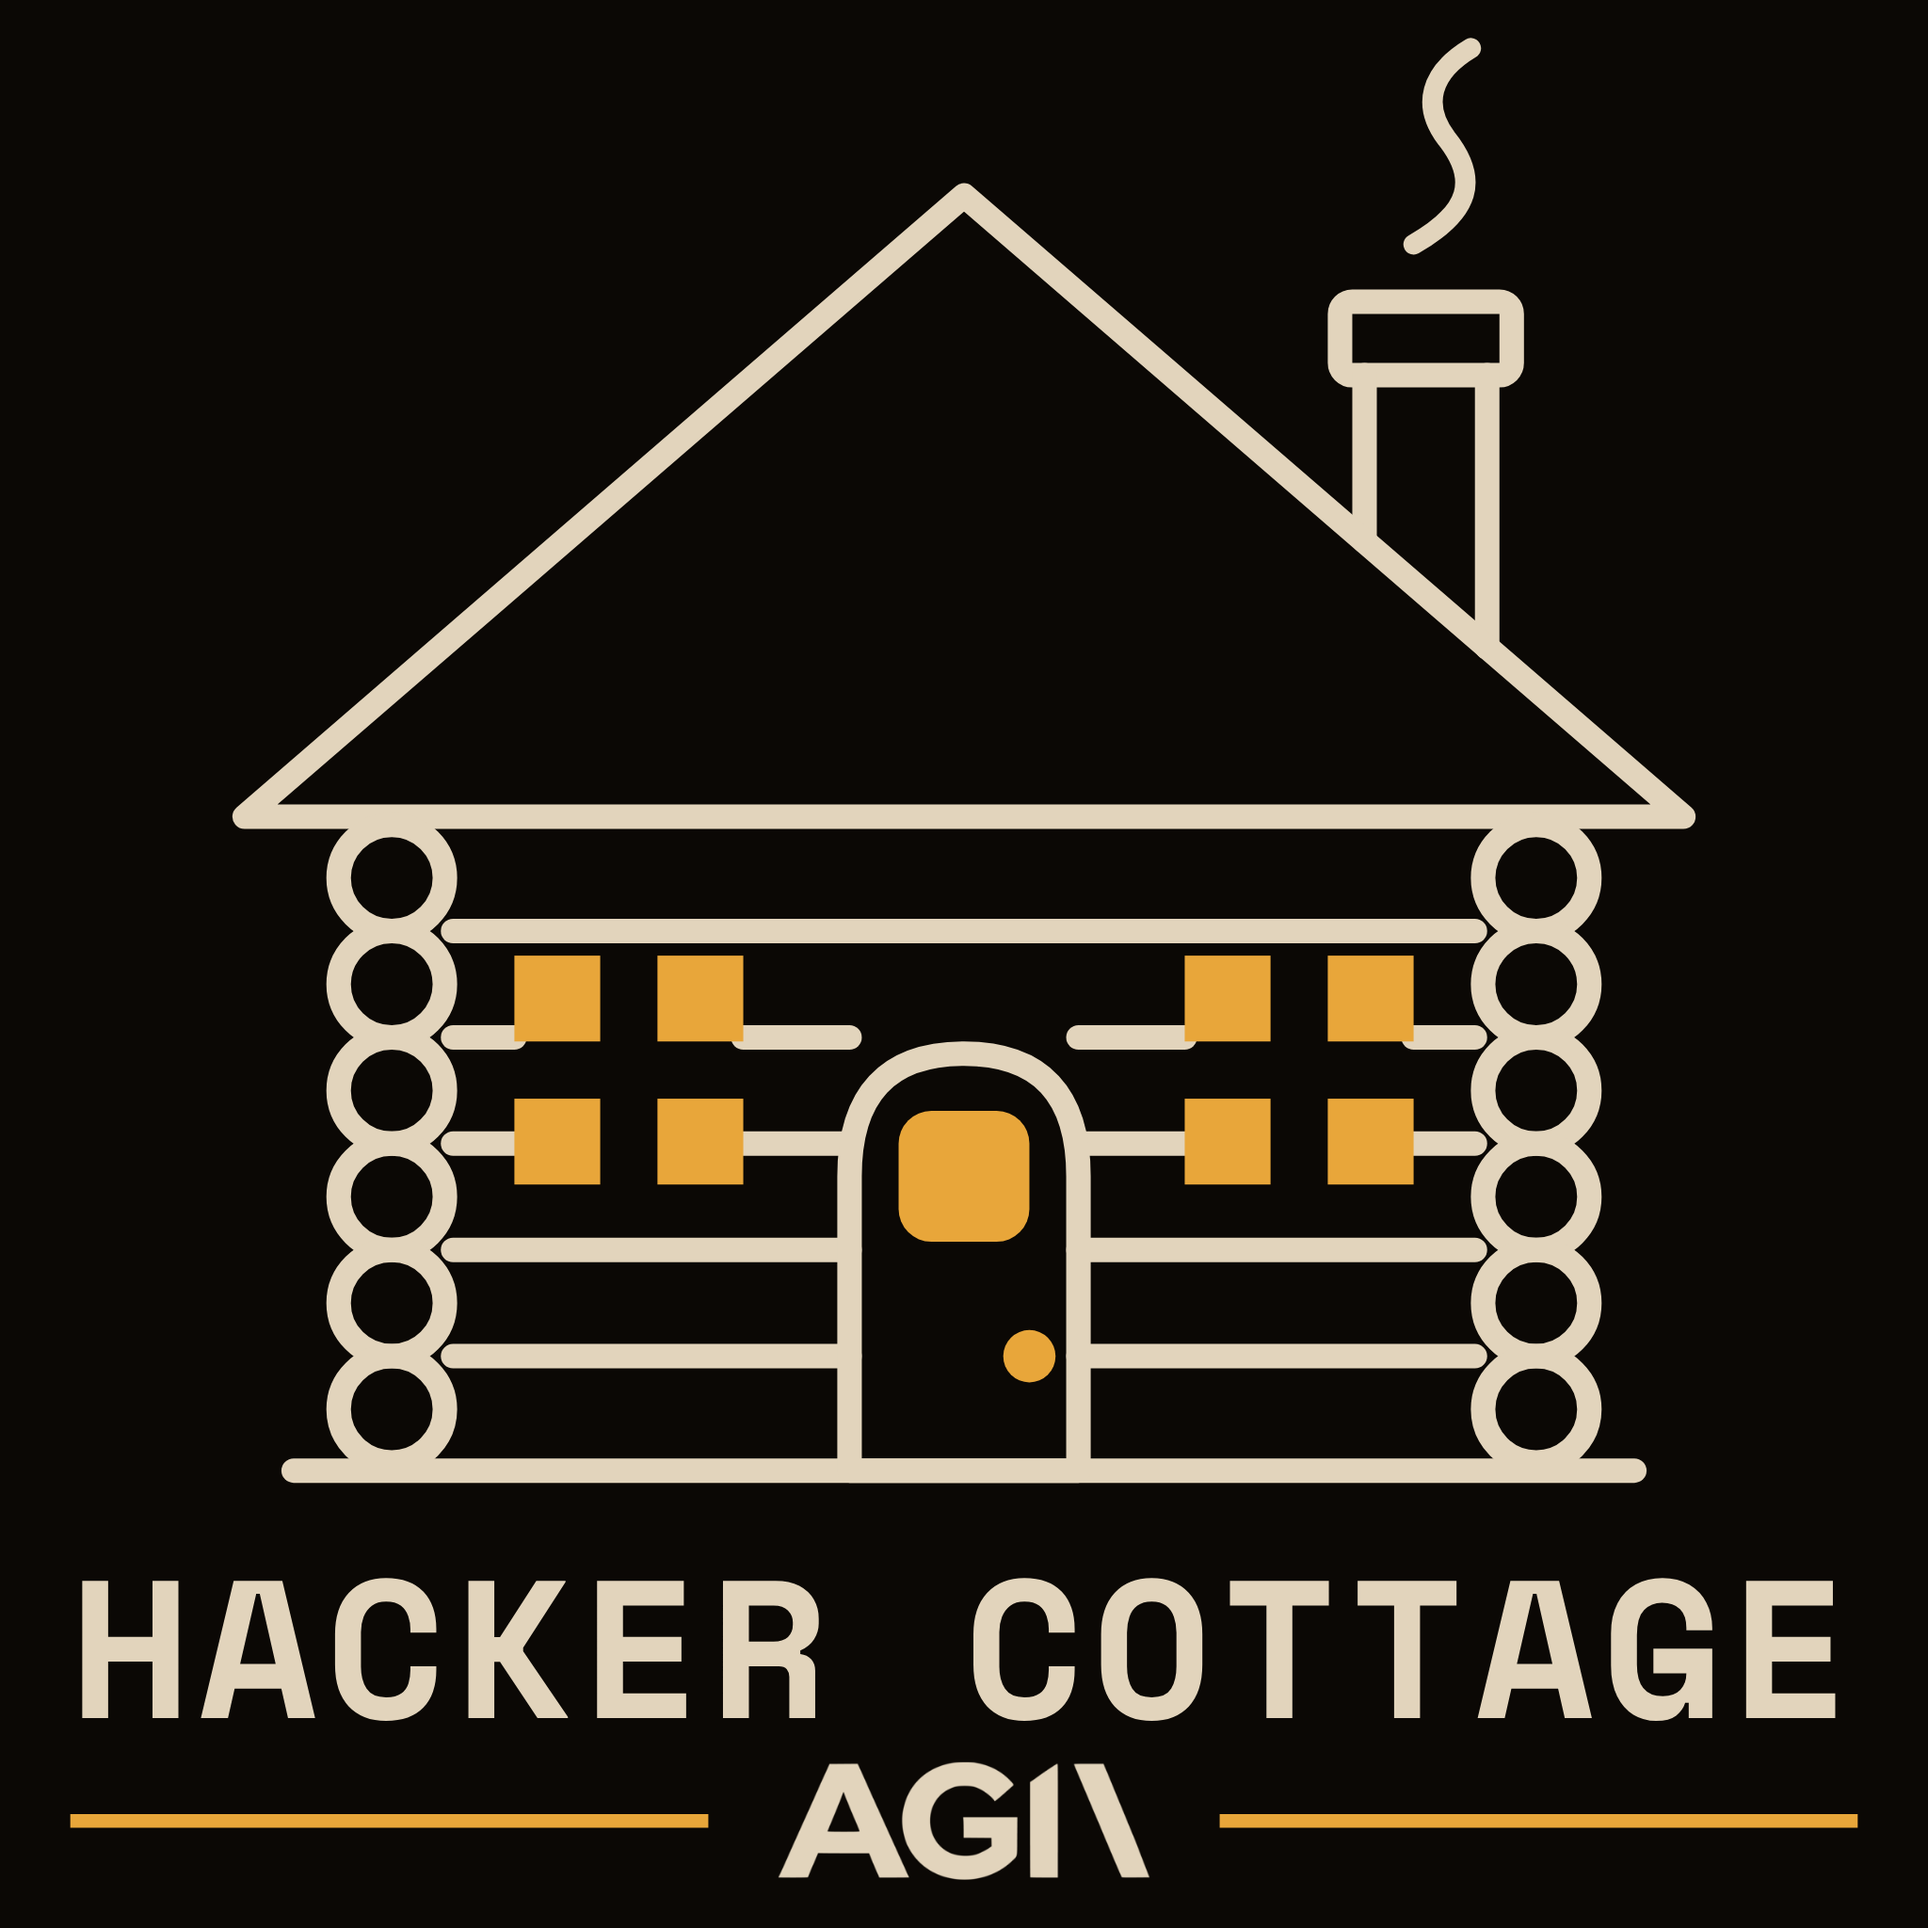
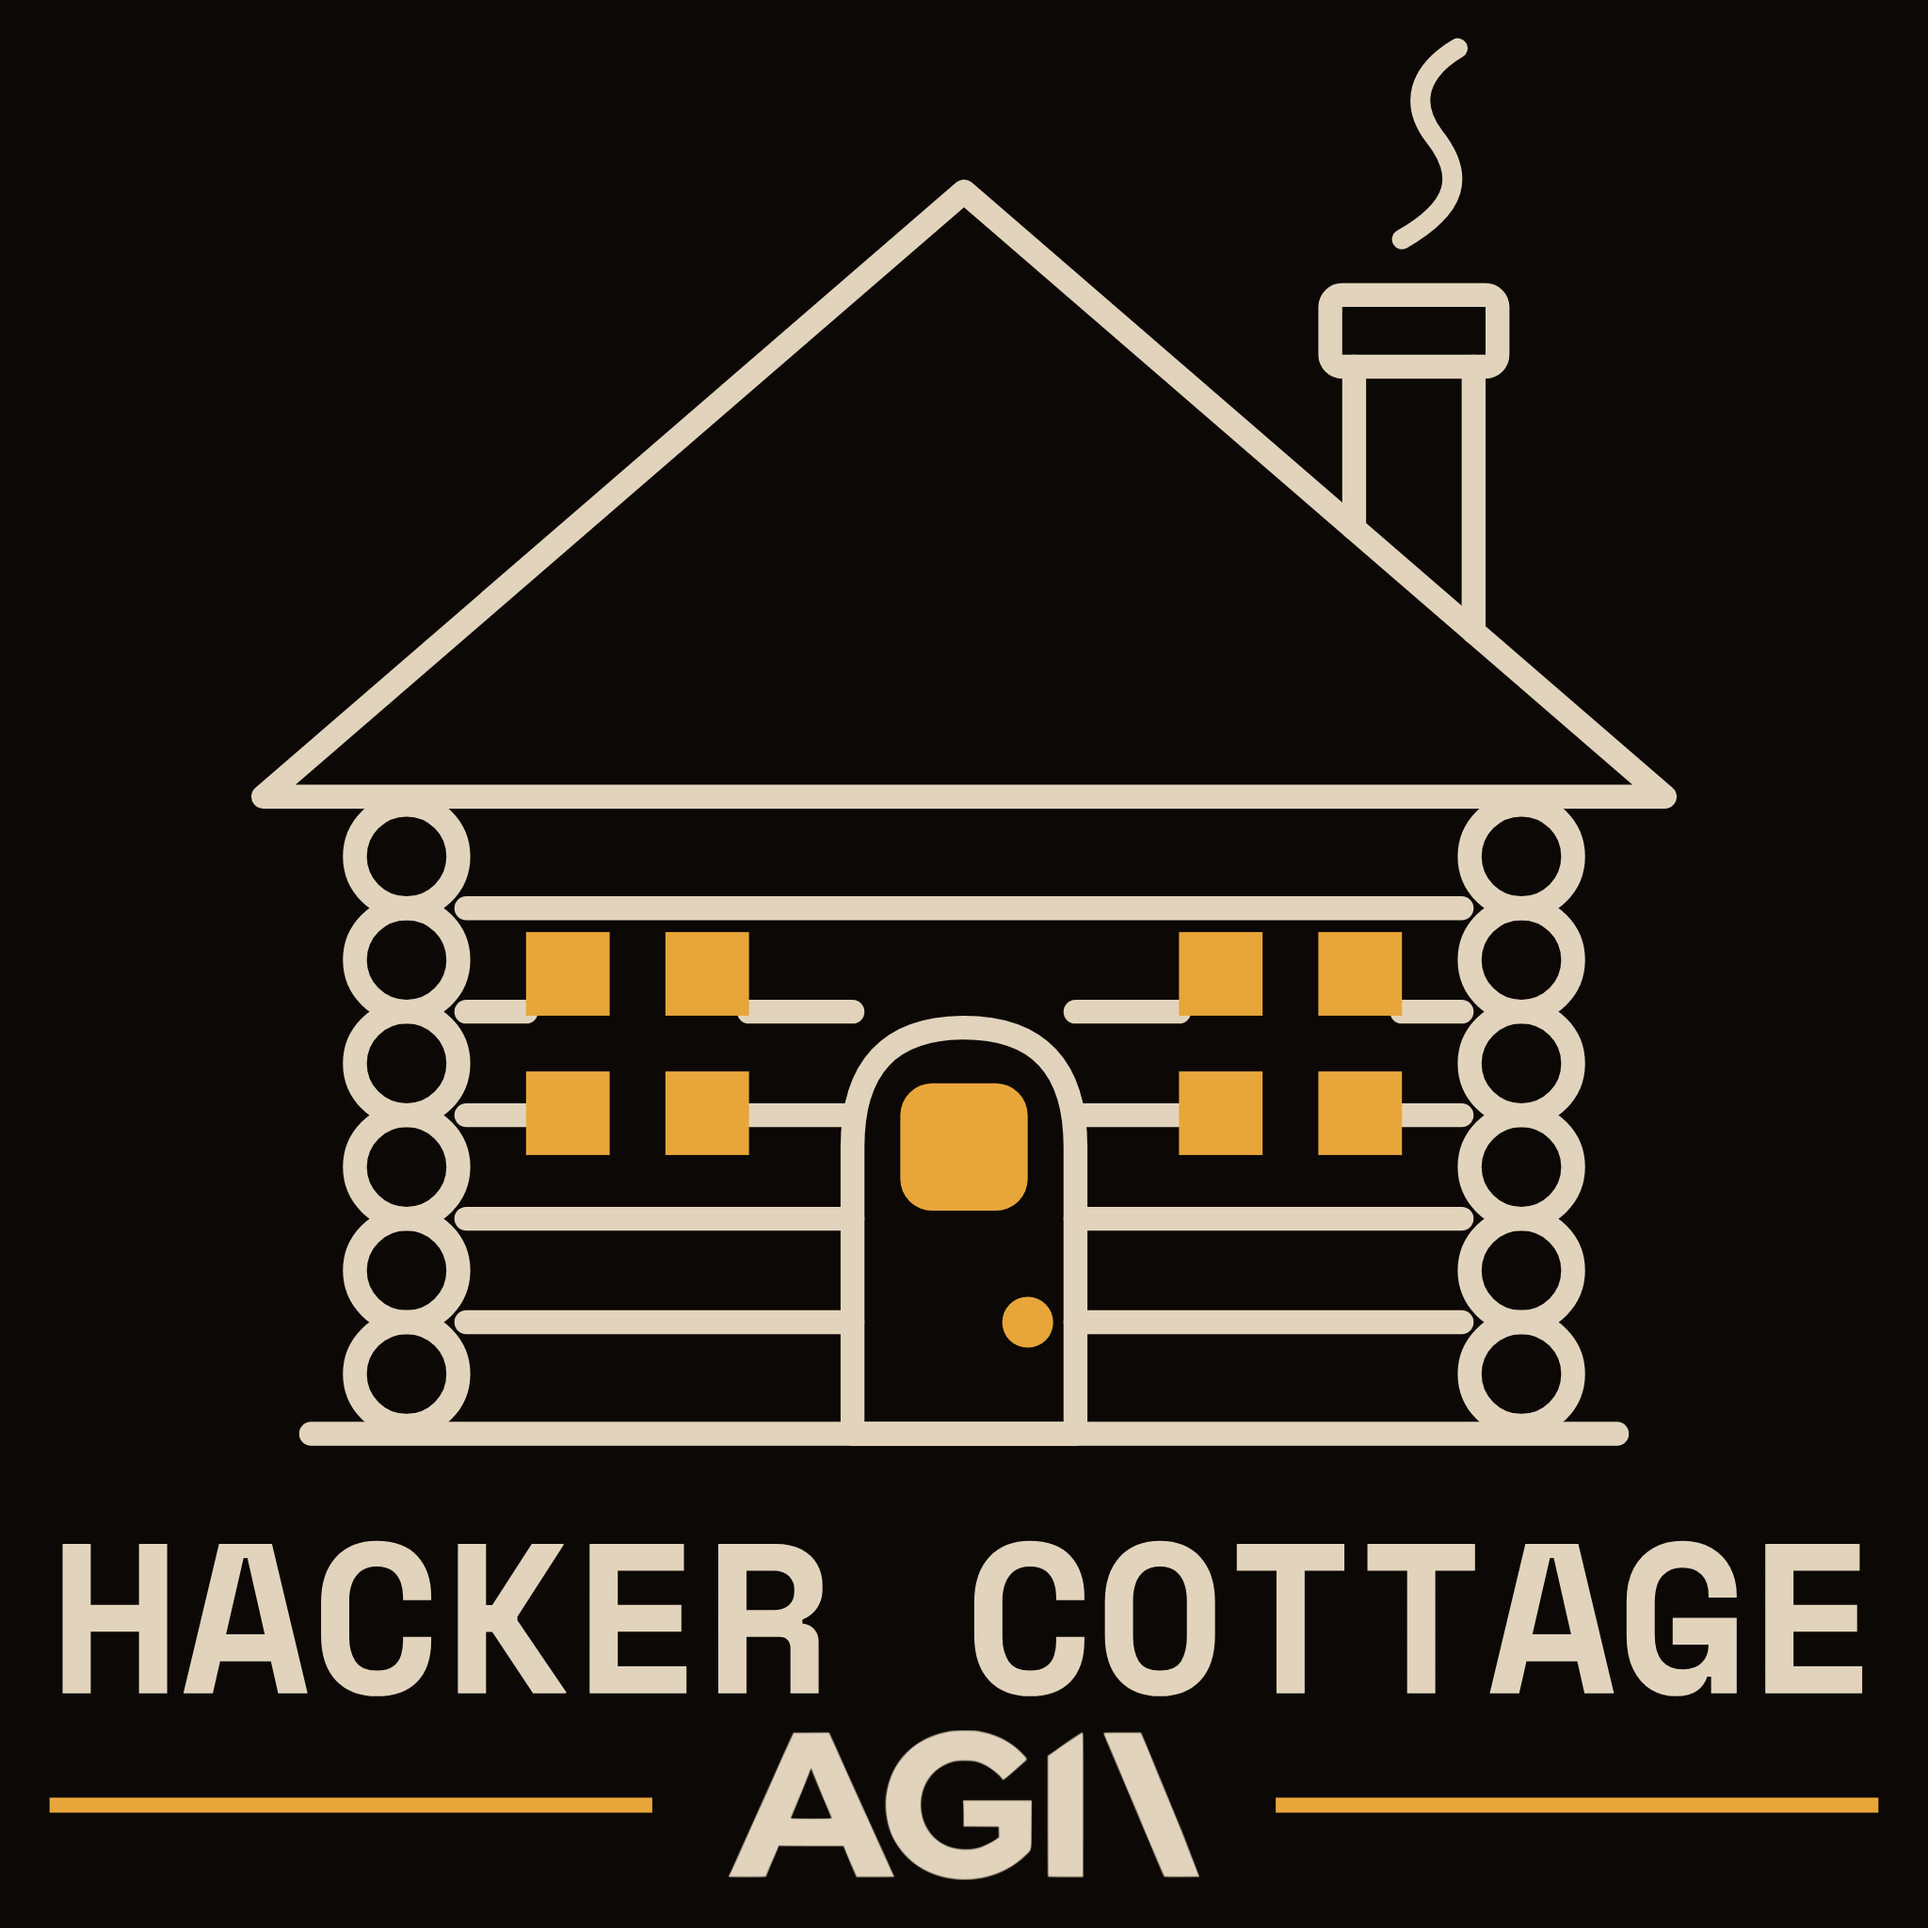
merch-hat: house type maxed out (4.4mm caps, zero tracking), AGIV to 4.4mm
Claude-Session: https://claude.ai/code/session_01Rg6yixi92Jf5QmLAdsJuW5

diff --git a/merch-hat/index.html b/merch-hat/index.html
@@ -373,32 +373,31 @@
 
     <!-- ═══ composed: cap front house, 2¼ × 2¼ in — the cabin is the hero ═══ -->
     <!-- Sibling design (Damian: bigger house, HACKER COTTAGE on one line, AGIV
-         below, type much smaller than the house). R2 (Damian: AGIV and type
-         proportionally bigger, house slightly smaller): cabin at 1.1872
-         (42.6 mm wide), one line of type at 28.5 (4.1 mm caps — the line is
-         width-bound, tracking eased 0.0476F -> 1.1 to buy the size), AGIV at
-         0.6F = 17.1u (3.5 mm, above the tumbler's 0.438F ratio on purpose).
-         Honest flag: caps and AGIV sit under the 5 mm floor — the embroiderer
-         must confirm before this one is picked. AGIV image retarget:
-         scale 53.90/58, place at (113.05, 255.90). -->
+         below, type much smaller than the house; then twice: bigger text).
+         R3: type at the width limit — font 31 with ZERO tracking (the line is
+         width-bound; Space Mono's monospace advance keeps natural spacing), caps
+         4.4 mm, side margins 1.5 mm. AGIV at 0.7F = 21.7u (4.4 mm). Cabin at
+         1.1564 (41.5 mm). Honest flag: caps and AGIV sit under the 5 mm floor —
+         the embroiderer must confirm before this one is picked. AGIV image
+         retarget: scale 68.40/58, place at (105.80, 251.30). -->
     <symbol id="cap-house-base" viewBox="0 0 280 280">
-      <g transform="translate(21.28 4.63) scale(1.1872)"><use href="#d-cabin-hat" width="200" height="190"/></g>
-      <text x="140" y="249.52" text-anchor="middle" font-family="'Space Mono',monospace" font-weight="700" font-size="28.5" letter-spacing="1.1" fill="currentColor">HACKER COTTAGE</text>
-      <line x1="10.21" y1="264.45" x2="102.87" y2="264.45" style="stroke:var(--acc, currentColor)" stroke-width="2"/>
-      <line x1="177.13" y1="264.45" x2="269.79" y2="264.45" style="stroke:var(--acc, currentColor)" stroke-width="2"/>
+      <g transform="translate(24.36 4.69) scale(1.1564)"><use href="#d-cabin-hat" width="200" height="190"/></g>
+      <text x="140" y="245.91" text-anchor="middle" font-family="'Space Mono',monospace" font-weight="700" font-size="31" fill="currentColor">HACKER COTTAGE</text>
+      <line x1="7.2" y1="262.15" x2="94.73" y2="262.15" style="stroke:var(--acc, currentColor)" stroke-width="2.2"/>
+      <line x1="185.27" y1="262.15" x2="272.8" y2="262.15" style="stroke:var(--acc, currentColor)" stroke-width="2.2"/>
     </symbol>
     <symbol id="cap-house-white" viewBox="0 0 280 280">
       <use href="#cap-house-base" width="280" height="280"/>
-      <g transform="translate(0.60 165.94) scale(0.92935)"><use href="#agiv-png-white"/></g>
+      <g transform="translate(-36.90 137.14) scale(1.17936)"><use href="#agiv-png-white"/></g>
     </symbol>
     <!-- ivory AGIV lives in cap-stack-color's image (home box 102.71, 249.37, 74.58w) -->
     <symbol id="cap-house-color" viewBox="0 0 280 280">
       <use href="#cap-house-base" width="280" height="280" style="color:#E2D4BC; --acc:#E8A63A"/>
-      <g transform="translate(38.82 75.65) scale(0.72275)"><use href="#agiv-png-ivory"/></g>
+      <g transform="translate(11.60 22.59) scale(0.91717)"><use href="#agiv-png-ivory"/></g>
     </symbol>
     <symbol id="cap-house-proof" viewBox="0 0 280 280">
       <use href="#cap-house-base" width="280" height="280"/>
-      <g transform="translate(0.60 165.94) scale(0.92935)"><use href="#agiv-png-graphite"/></g>
+      <g transform="translate(-36.90 137.14) scale(1.17936)"><use href="#agiv-png-graphite"/></g>
     </symbol>
 
   </defs>
@@ -447,7 +446,7 @@
           </div>
           <div class="tile stack">
             <div class="field dark"><svg viewBox="0 0 280 280"><use href="#cap-house-white"/></svg></div>
-            <div class="tlabel"><span class="t1">Front · house, white</span><span class="tright"><span class="t2">type 4.1 mm · vendor check</span><a class="dl" href="assets/cap-front-house-white.svg" download>SVG</a><a class="dl" href="assets/cap-front-house-white.png" download>PNG</a></span></div>
+            <div class="tlabel"><span class="t1">Front · house, white</span><span class="tright"><span class="t2">type 4.4 mm · vendor check</span><a class="dl" href="assets/cap-front-house-white.svg" download>SVG</a><a class="dl" href="assets/cap-front-house-white.png" download>PNG</a></span></div>
           </div>
           <div class="tile stack">
             <div class="field dark"><svg viewBox="0 0 280 280"><use href="#cap-house-color"/></svg></div>
